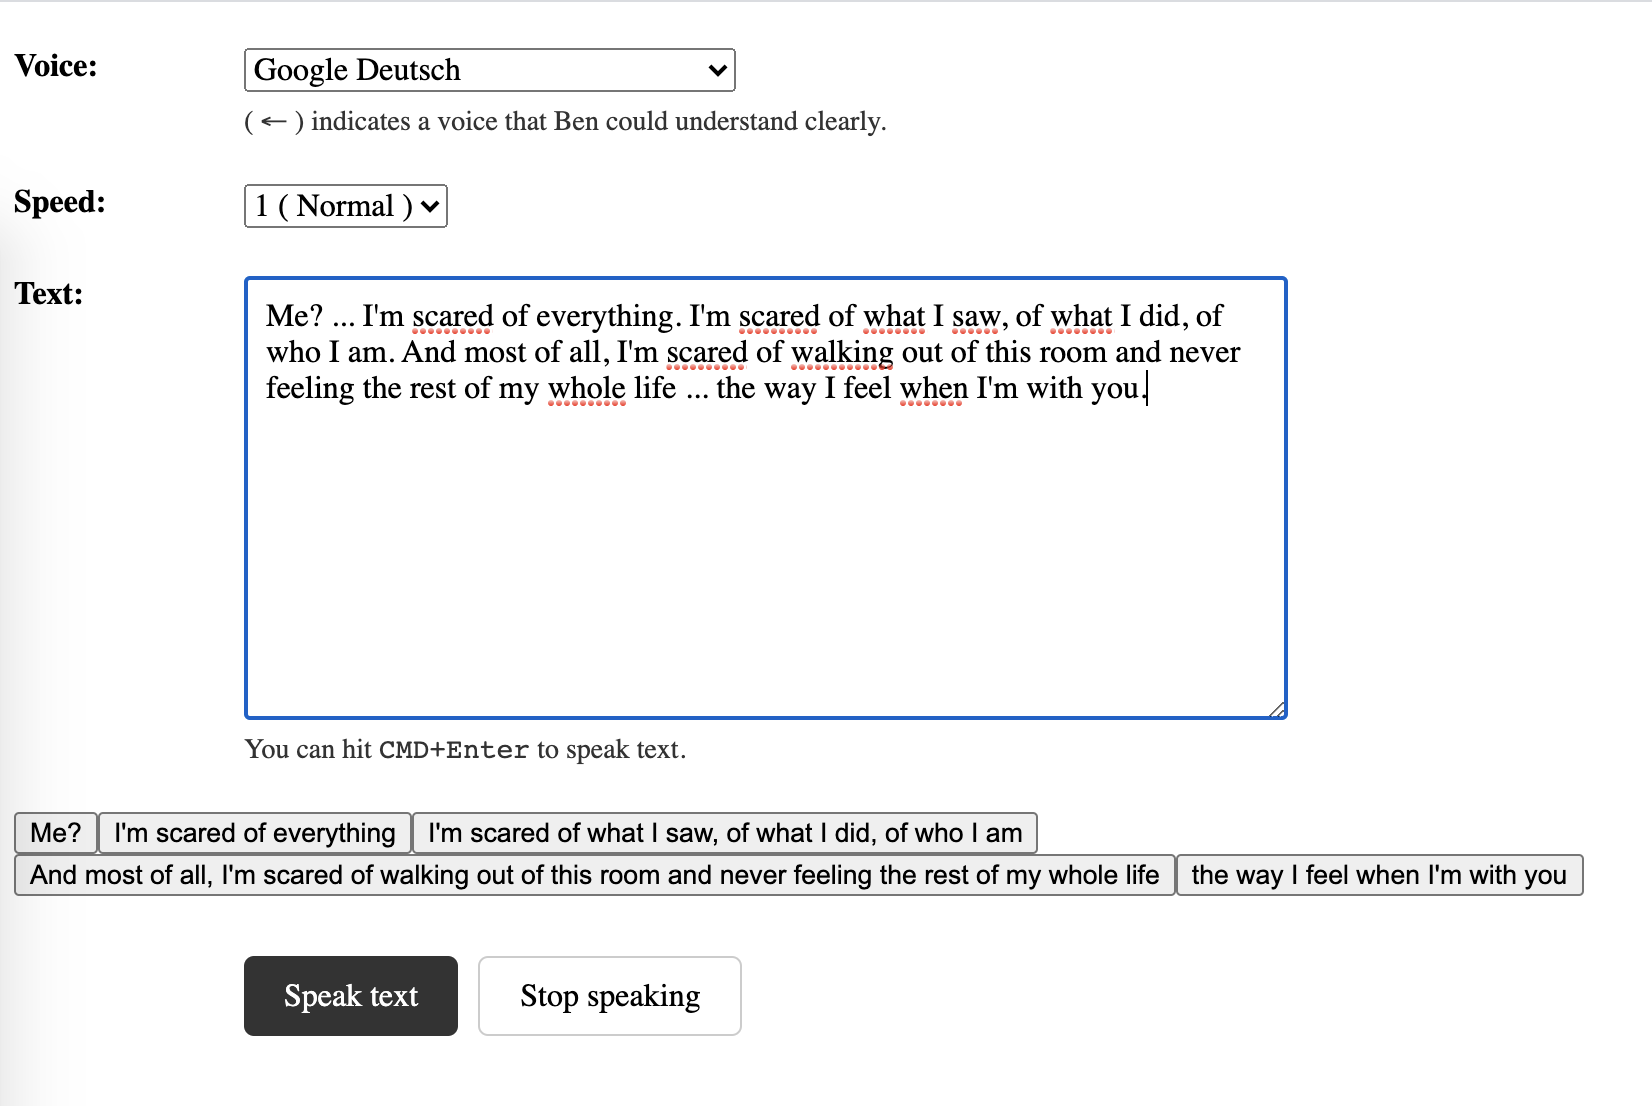
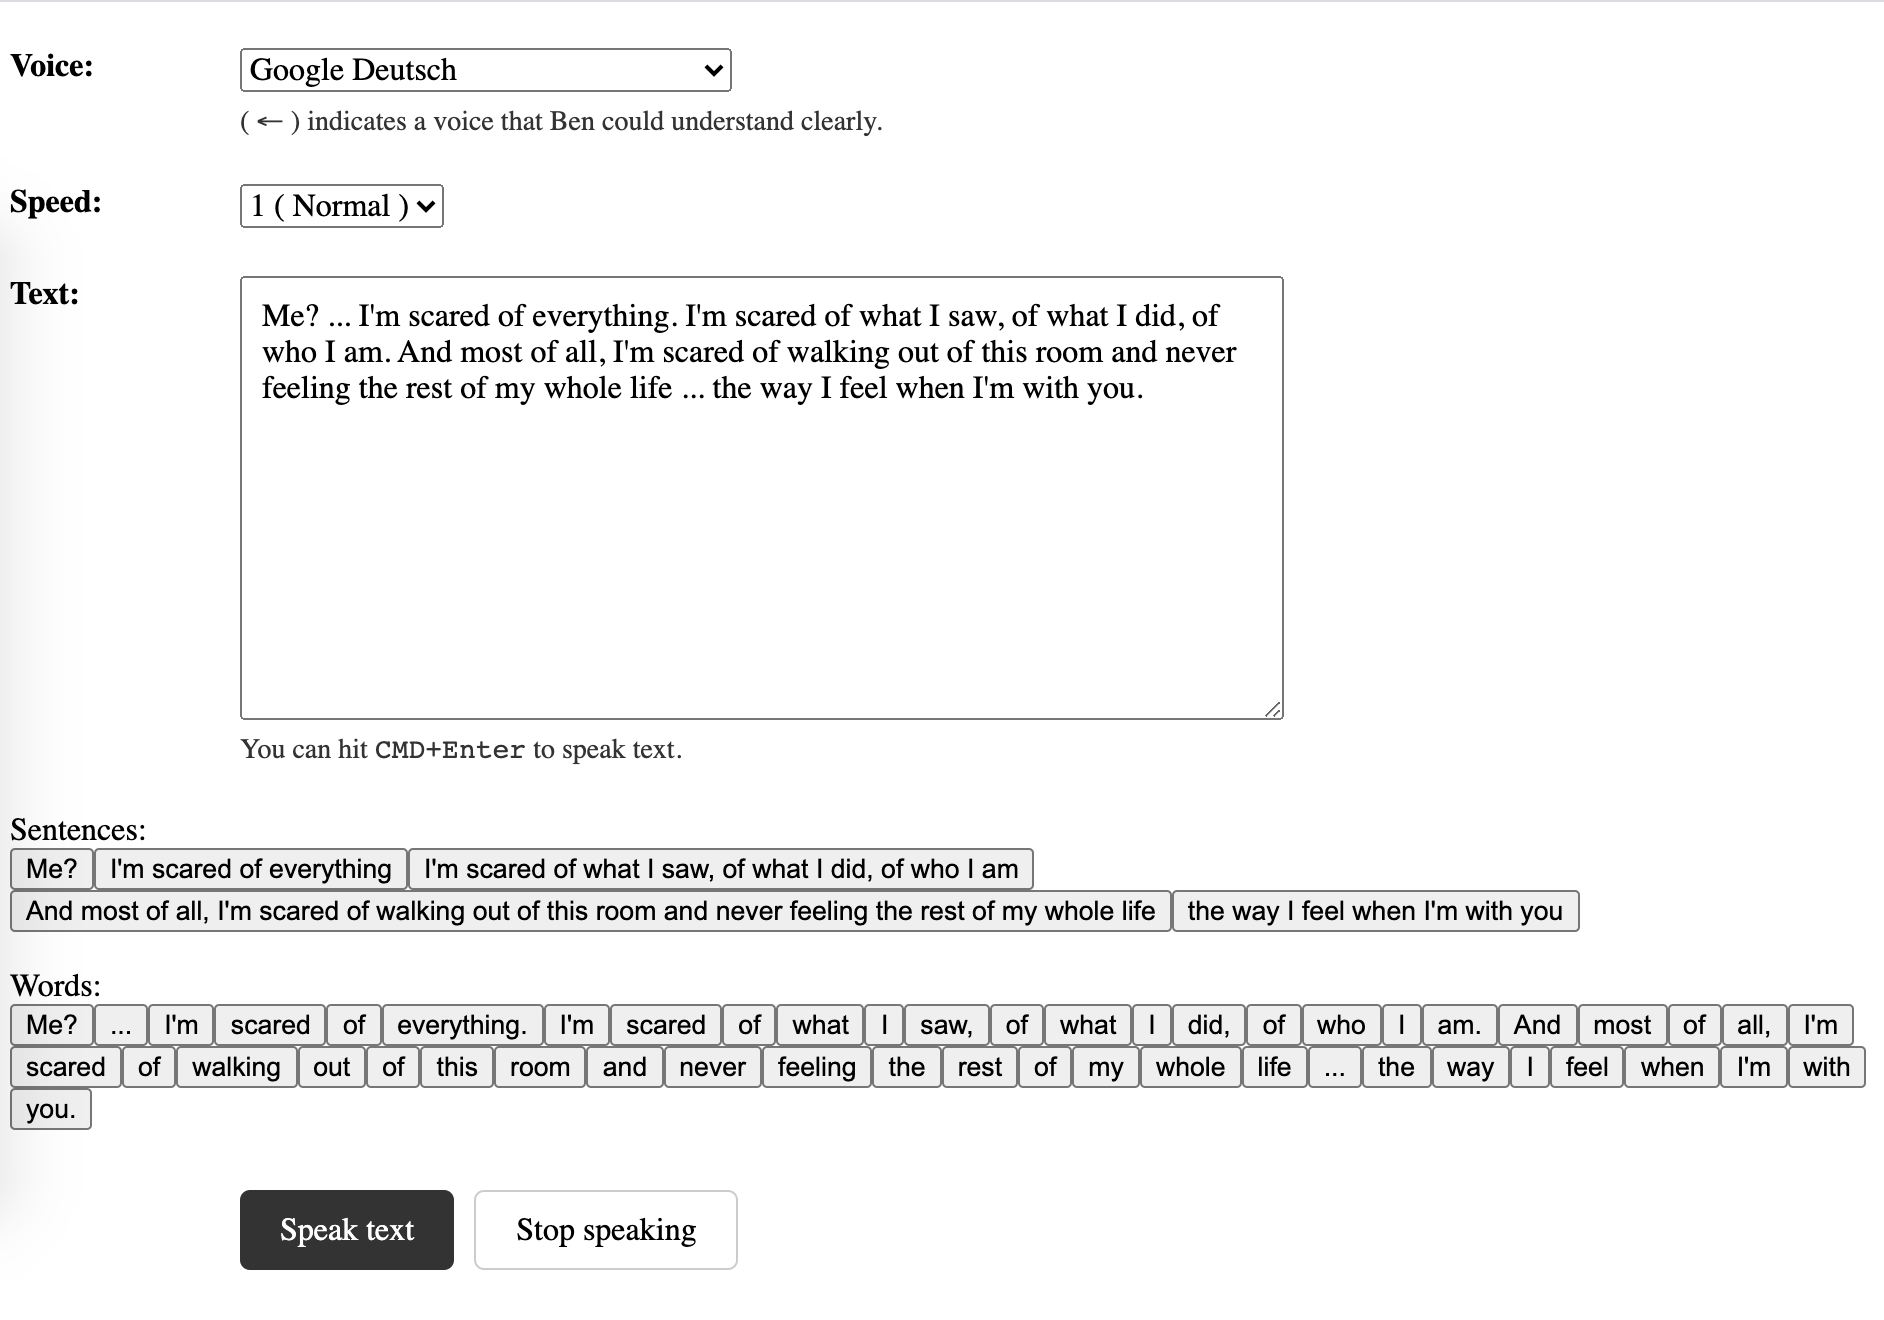
added words buttons

diff --git a/src/app/app.component.html b/src/app/app.component.html
@@ -71,7 +71,13 @@
 	</div>
 </div>
 
-<span *ngFor="let word of getSplittedText(); index as i">
+Sentences:<br>
+<span *ngFor="let sentence of getSentences(); index as i">
+  <button (click)="speakWord(sentence)">{{sentence}}</button>
+</span>
+<br>
+<br>Words:<br>
+<span *ngFor="let word of getWords(); index as i">
   <button (click)="speakWord(word)">{{word}}</button>
 </span>
 

diff --git a/src/app/app.component.ts b/src/app/app.component.ts
@@ -89,8 +89,12 @@ export class AppComponent {
 
 	}
 
-  public getSplittedText() {
+  public getSentences() {
     return this.text.split(/\.\s*/).filter(x => x.length > 0)
+  }
+
+  public getWords() {
+    return this.text.split(/\s+/).filter(x => x.length > 0)
   }
 
 	// I synthesize speech from the current text for the currently-selected voice.

diff --git a/README.md b/README.md
@@ -1,2 +1,8 @@
 # Text to Speech
+Creates buttons based on input text, for each sentence and word!
 <img src="src/assets/screenshot.png">
+
+#Installation
+1. clone the repo/download
+2. npm install
+3. npm start
